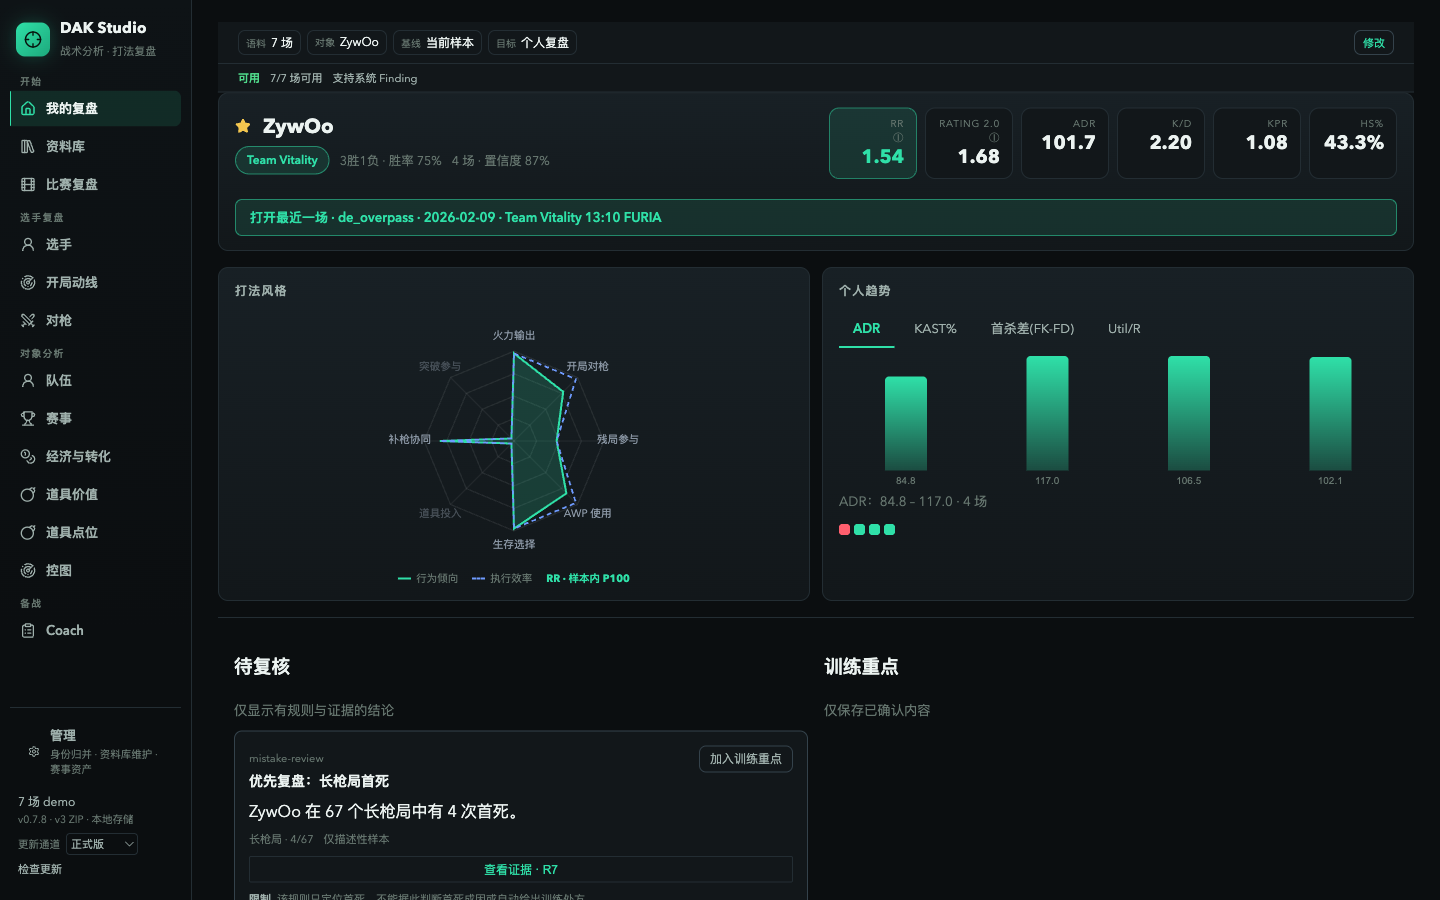
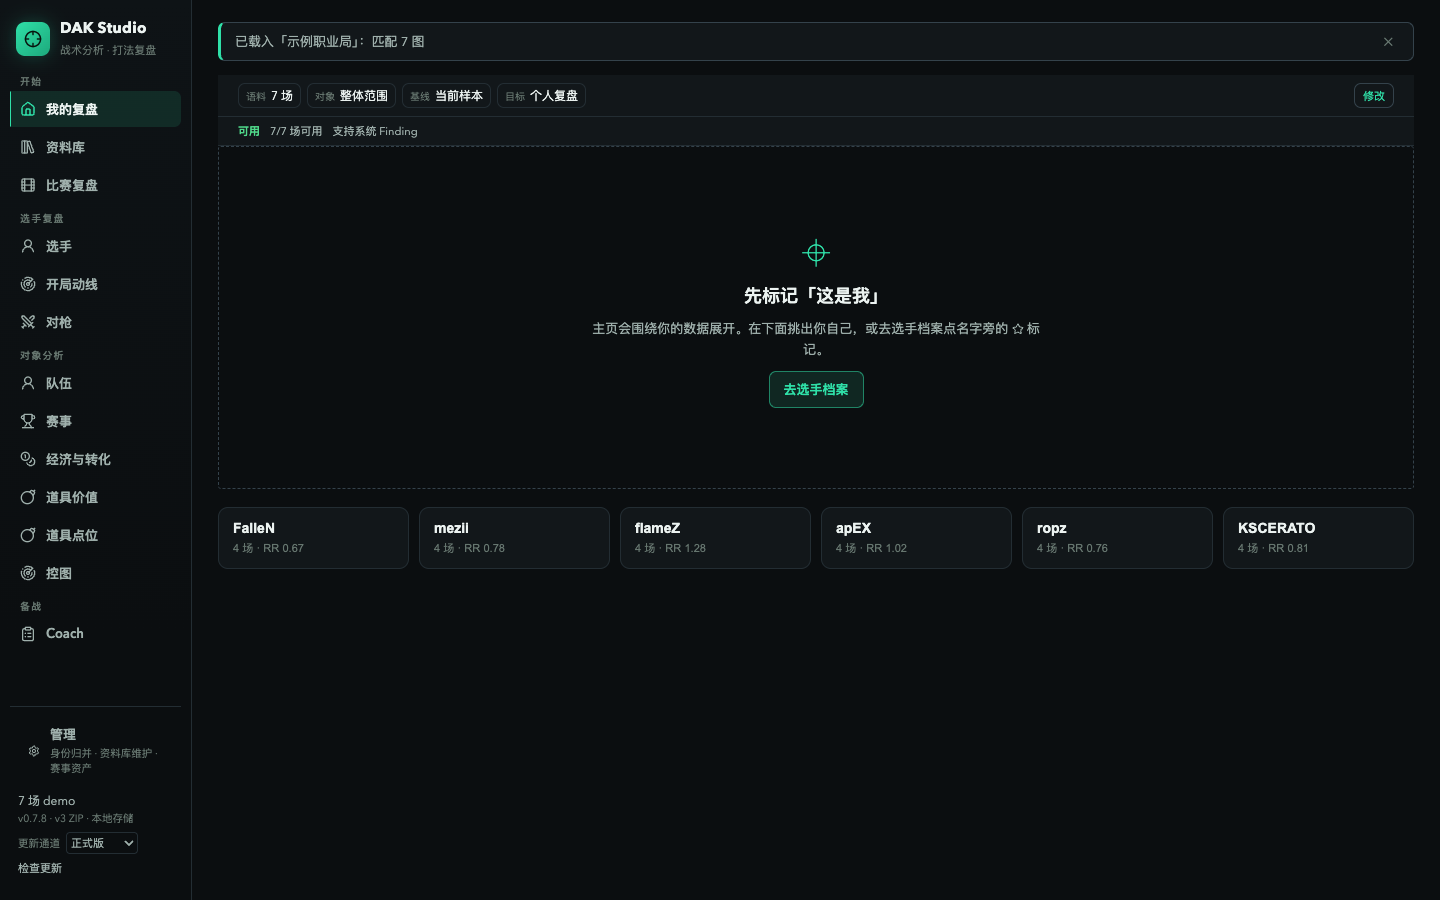
fix(studio): 收口 PRISM 画像可用性

diff --git a/apps/dak-studio/src/views/profile-widgets.tsx b/apps/dak-studio/src/views/profile-widgets.tsx
@@ -20,14 +20,24 @@ export function FingerprintRadar({ style }: { style: PlayerStyle }) {
   };
   const ringPath = (fraction: number) =>
     axes.map((_, i) => point(i, fraction).join(",")).join(" ");
-  const pathFor = (field: "involvementPercentile" | "efficiencyPercentile") => axes
-    .map((axis, i) => point(i, Math.max(0.04, (axis[field] ?? 0) / 100)).join(","))
-    .join(" ");
+  const pathFor = (field: "involvementPercentile" | "efficiencyPercentile"): string | null => {
+    const points = axes.map((axis, i) => {
+      const value = axis[field];
+      return value == null ? null : point(i, Math.max(0.04, value / 100)).join(",");
+    });
+    return points.every((value): value is string => value != null) ? points.join(" ") : null;
+  };
+  const involvementPath = pathFor("involvementPercentile");
+  const efficiencyPath = pathFor("efficiencyPercentile");
+  const hasCompleteFingerprint = involvementPath != null && efficiencyPath != null;
   const rrTone = rrPercentile >= 75 ? "high" : rrPercentile >= 40 ? "mid" : "low";
 
   return (
     <div className={`stu-prism-radar stu-prism-radar-${rrTone}`}>
-      <svg viewBox={`0 0 ${size} ${size}`} className="stu-radar" role="img" aria-label={`PRISM 八维打法画像，RR 样本内 P${rrPercentile.toFixed(0)}`}>
+      <svg viewBox={`0 0 ${size} ${size}`} className="stu-radar" role="img" aria-label={hasCompleteFingerprint
+        ? `PRISM 八维打法画像，RR 样本内 P${rrPercentile.toFixed(0)}`
+        : `PRISM 八维打法画像部分可用，RR 样本内 P${rrPercentile.toFixed(0)}`}
+      >
         {[0.25, 0.5, 0.75, 1].map((fraction) => (
           <polygon key={fraction} className="stu-radar-ring" points={ringPath(fraction)} />
         ))}
@@ -35,8 +45,21 @@ export function FingerprintRadar({ style }: { style: PlayerStyle }) {
           const [x, y] = point(i, 1);
           return <line key={i} className="stu-radar-spoke" x1={center} y1={center} x2={x} y2={y} />;
         })}
-        <polygon className="stu-radar-value" points={pathFor("involvementPercentile")} />
-        <polygon className="stu-radar-efficiency" points={pathFor("efficiencyPercentile")} />
+        {hasCompleteFingerprint ? (
+          <>
+            <polygon className="stu-radar-value" points={involvementPath} />
+            <polygon className="stu-radar-efficiency" points={efficiencyPath} />
+          </>
+        ) : (
+          <text className="stu-radar-partial-note" x={center} y={center - 5} textAnchor="middle">
+            部分画像
+          </text>
+        )}
+        {!hasCompleteFingerprint && (
+          <text className="stu-radar-partial-detail" x={center} y={center + 11} textAnchor="middle">
+            请以轴列表为准
+          </text>
+        )}
         {axes.map((axis, i) => {
           const [x, y] = point(i, 1.16);
           return (
@@ -50,6 +73,7 @@ export function FingerprintRadar({ style }: { style: PlayerStyle }) {
         <span><i className="stu-prism-key stu-prism-key-involvement" />行为倾向</span>
         <span><i className="stu-prism-key stu-prism-key-efficiency" />执行效率</span>
         <b>RR · 样本内 P{rrPercentile.toFixed(0)}</b>
+        {!hasCompleteFingerprint && <span className="stu-prism-legend-partial">部分信号不绘制闭合画像</span>}
       </div>
     </div>
   );

diff --git a/packages/presentation/src/player.test.ts b/packages/presentation/src/player.test.ts
@@ -17,7 +17,7 @@ describe("buildAllPlayerSeasonProfiles", () => {
     const profile = profiles.find((row) => row.playerKey === source.playerKey)!;
 
     // 元信息与评分透传（不重算）
-    expect(profile.version).toBe("cs2-demo-analysis-kit/player-profile-0.1");
+    expect(profile.version).toBe("cs2-demo-analysis-kit/player-profile-0.2");
     expect(profile.rating.rivalhubRR).toBe(source.accountRR);
     expect(profile.rating.hltvRating).toBe(source.rrV1);
     expect(profile.rating.hltvPercentile).toBe(source.rrV1Percentile);
@@ -77,6 +77,7 @@ describe("buildAllPlayerSeasonProfiles", () => {
           expect(axis.efficiencyPercentile).toBeGreaterThanOrEqual(0);
           expect(axis.efficiencyPercentile).toBeLessThanOrEqual(100);
           expect(axis.signalCoverage).toBe(1);
+          expect(axis.comparisonCount).toBe(5);
         }
       }
     }
@@ -94,5 +95,51 @@ describe("buildAllPlayerSeasonProfiles", () => {
     expect(entry.involvementPercentile).toBeNull();
     expect(entry.efficiencyPercentile).toBeNull();
     expect(entry.combinedPercentile).toBeNull();
+  });
+
+  it("does not expose precise PRISM percentiles for a one-player cohort", () => {
+    const bundle = buildTestSeasonCohortBundle();
+    bundle.players = bundle.players.slice(0, 1);
+
+    const profile = buildAllPlayerSeasonProfiles(bundle)[0];
+    const axis = profile.style!.axes.find((item) => item.key === "firepower")!;
+
+    expect(axis.status).toBe("insufficient");
+    expect(axis.comparisonCount).toBe(1);
+    expect(axis.involvementPercentile).toBeNull();
+    expect(axis.efficiencyPercentile).toBeNull();
+    expect(axis.combinedPercentile).toBeNull();
+  });
+
+  it("does not expose precise PRISM percentiles for a small cohort", () => {
+    const bundle = buildTestSeasonCohortBundle();
+    bundle.players = bundle.players.slice(0, 2);
+
+    const profile = buildAllPlayerSeasonProfiles(bundle)[0];
+    const axis = profile.style!.axes.find((item) => item.key === "firepower")!;
+
+    expect(axis.status).toBe("insufficient");
+    expect(axis.comparisonCount).toBe(2);
+    expect(axis.involvementPercentile).toBeNull();
+    expect(axis.efficiencyPercentile).toBeNull();
+  });
+
+  it("uses midpoint ranks when all valid PRISM values tie", () => {
+    const bundle = buildTestSeasonCohortBundle();
+    for (const player of bundle.players) {
+      if (!player.prism) continue;
+      player.prism.axes.sniping.involvementRaw = 4;
+      player.prism.axes.sniping.efficiencyRaw = 2;
+    }
+
+    const axes = buildAllPlayerSeasonProfiles(bundle)
+      .flatMap((profile) => profile.style?.axes.filter((axis) => axis.key === "sniping") ?? []);
+
+    expect(axes).toHaveLength(5);
+    for (const axis of axes) {
+      expect(axis.status).toBe("ready");
+      expect(axis.involvementPercentile).toBe(50);
+      expect(axis.efficiencyPercentile).toBe(50);
+    }
   });
 });

diff --git a/apps/dak-studio/src/views/PlayersView.tsx b/apps/dak-studio/src/views/PlayersView.tsx
@@ -378,12 +378,16 @@ export function PlayersView({
                         </>
                       ) : (
                         <span className="stu-prism-axis-status">
-                          {axis.status === "partial" ? "部分信号" : "不可用"} · 覆盖 {(axis.signalCoverage * 100).toFixed(0)}%
+                          {axis.status === "partial"
+                            ? `部分信号 · 覆盖 ${(axis.signalCoverage * 100).toFixed(0)}%`
+                            : axis.status === "insufficient"
+                              ? `样本不足 · ${axis.comparisonCount} 人`
+                              : "不可用"}
                         </span>
                       )}
                     </div>
                   ))}
-                  <p className="stu-dim stu-prism-note">P 值均为当前 {selected.mapCount} 图分析范围内的相对位置；信号覆盖低于 75% 时不展示精确排名。</p>
+                  <p className="stu-dim stu-prism-note">P 值均为当前 {selected.mapCount} 图分析范围内的相对位置；信号覆盖低于 75% 或有效对比少于 5 人时不展示精确排名。</p>
                 </div>
               ) : (
                 <p className="stu-dim">该聚合范围无 PRISM 结果。</p>
@@ -744,7 +748,7 @@ function buildPlayerCardMarkdown(profile: PlayerSeasonProfile, insights: PlayerS
     lines.push("");
     lines.push("**PRISM 打法画像（当前样本内）**：" + profile.style.axes.map((axis) => axis.status === "ready"
       ? `${axis.label} 行为 P${axis.involvementPercentile!.toFixed(0)} / 效率 P${axis.efficiencyPercentile!.toFixed(0)}`
-      : `${axis.label} ${axis.status === "partial" ? "部分信号" : "不可用"}`
+      : `${axis.label} ${axis.status === "partial" ? "部分信号" : axis.status === "insufficient" ? `样本不足（${axis.comparisonCount} 人）` : "不可用"}`
     ).join(" · "));
   }
   if (insights) {

diff --git a/packages/presentation/src/player.ts b/packages/presentation/src/player.ts
@@ -33,6 +33,8 @@ const PRISM_AXIS_LABEL: Record<PrismAxisKey, string> = {
 };
 
 const MIN_STYLE_SIGNAL_COVERAGE = 0.75;
+/** 小于此人数的 cohort 只能用于浏览原始数据，不能给出精确的相对排名。 */
+const MIN_COHORT_FOR_STYLE_PERCENTILE = 5;
 
 /** 用于强项/弱项判定的技能类指标（高 = 好）。不含纯风格标签（如 AWP）。 */
 const SKILL_METRICS: { key: LeaderboardMetricKey; label: string }[] = [
@@ -74,11 +76,14 @@ function buildStyle(player: SeasonPlayerRow, distributions: PrismDistributions):
     rrPercentile: prism.rrPercentile,
     axes: PRISM_AXIS_ORDER.map((key) => {
       const axis = prism.axes[key];
+      const comparisonCount = distributions[key].involvement.length;
       const status = !axis.hasSignal
         ? "unavailable" as const
         : axis.availableSignalWeight < MIN_STYLE_SIGNAL_COVERAGE
           ? "partial" as const
-          : "ready" as const;
+          : comparisonCount < MIN_COHORT_FOR_STYLE_PERCENTILE
+            ? "insufficient" as const
+            : "ready" as const;
       return {
         key,
         label: PRISM_AXIS_LABEL[key],
@@ -90,6 +95,7 @@ function buildStyle(player: SeasonPlayerRow, distributions: PrismDistributions):
           : null,
         combinedPercentile: status === "ready" ? axis.percentile : null,
         signalCoverage: axis.availableSignalWeight,
+        comparisonCount,
         status
       };
     })
@@ -108,7 +114,7 @@ function profileFromRow(
     total > 0 ? round((count / total) * 100, 1) : null;
 
   return playerSeasonProfileSchema.parse({
-    version: "cs2-demo-analysis-kit/player-profile-0.1",
+    version: "cs2-demo-analysis-kit/player-profile-0.2",
     weightsVersion,
     playerKey: player.playerKey,
     name: player.name,

diff --git a/packages/contract/src/player.ts b/packages/contract/src/player.ts
@@ -28,7 +28,9 @@ export const playerStyleAxisSchema = z.object({
   combinedPercentile: z.number().min(0).max(100).nullable(),
   /** 上游配置中可用信号权重占比，0–1。 */
   signalCoverage: z.number().min(0).max(1),
-  status: z.enum(["ready", "partial", "unavailable"])
+  /** 可供当前 cohort 排名的有效选手数；不足 5 人时不展示精确 P 值。 */
+  comparisonCount: z.number().int().nonnegative(),
+  status: z.enum(["ready", "partial", "unavailable", "insufficient"])
 });
 
 export const playerStyleSchema = z.object({
@@ -59,7 +61,8 @@ export const playerWeaponProfileEntrySchema = z.object({
 });
 
 export const playerSeasonProfileSchema = z.object({
-  version: z.literal("cs2-demo-analysis-kit/player-profile-0.1"),
+  /** 0.2：PRISM 轴拆分为行为倾向、执行效率，并附带信号/样本可用性。 */
+  version: z.literal("cs2-demo-analysis-kit/player-profile-0.2"),
   weightsVersion: z.string(),
   playerKey: z.string(),
   name: z.string(),

diff --git a/packages/presentation/src/test-fixtures.ts b/packages/presentation/src/test-fixtures.ts
@@ -163,7 +163,7 @@ function player(index: number, overrides: Partial<SeasonPlayerRow> = {}): Season
       buyDelta: "available",
       manState: "available"
     },
-    prism: index === 5 ? null : prism(index, steamId64, 2 + index),
+    prism: index === 6 ? null : prism(index, steamId64, 2 + index),
     confidence: 0.6 + index * 0.05,
     perMatch: [
       { matchId: "m2", steamId64, accountRR: 1 + index * 0.1, rrV1: 0.9 + index * 0.08 },
@@ -178,7 +178,7 @@ export function buildTestSeasonCohortBundle(): SeasonCohortBundle {
     version: "cs2-demo-analysis-kit/cohort-1.0",
     matchCount: 2,
     weightsVersion: "test-weights",
-    players: [1, 2, 3, 4, 5].map((i) => player(i)),
+    players: [1, 2, 3, 4, 5, 6].map((i) => player(i)),
     provenance: {
       cohortVersion: "cs2-demo-analysis-kit/cohort-1.0",
       sourceSchemaVersion: "cs2-demo-format/3.0",

diff --git a/apps/dak-studio/src/studio.css b/apps/dak-studio/src/studio.css
@@ -2930,6 +2930,17 @@ td.stu-heat-cell.stu-heat-neutral {
   opacity: .42;
 }
 
+.stu-radar-partial-note {
+  fill: var(--dak-warn);
+  font-size: 13px;
+  font-weight: 700;
+}
+
+.stu-radar-partial-detail {
+  fill: var(--dak-fg-dim);
+  font-size: 9px;
+}
+
 .stu-prism-radar {
   --stu-prism-color: var(--dak-warn);
 }
@@ -2955,6 +2966,10 @@ td.stu-heat-cell.stu-heat-neutral {
 }
 
 .stu-prism-legend b { color: var(--stu-prism-color); }
+
+.stu-prism-legend-partial {
+  color: var(--dak-warn);
+}
 
 .stu-prism-key {
   width: 13px;
